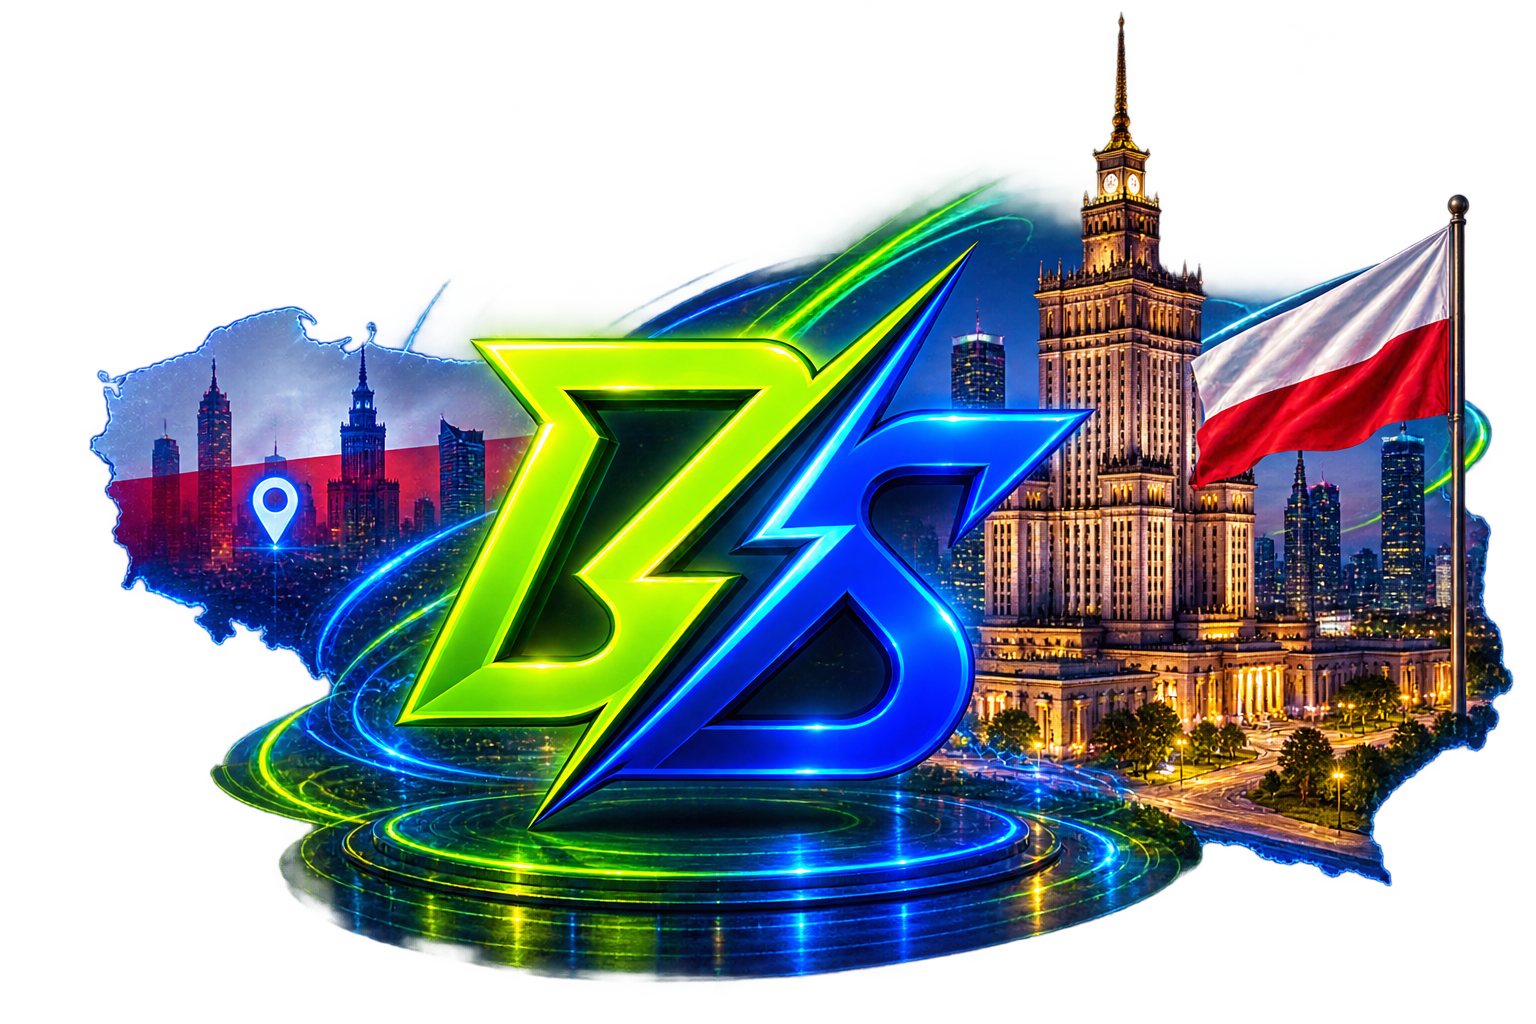
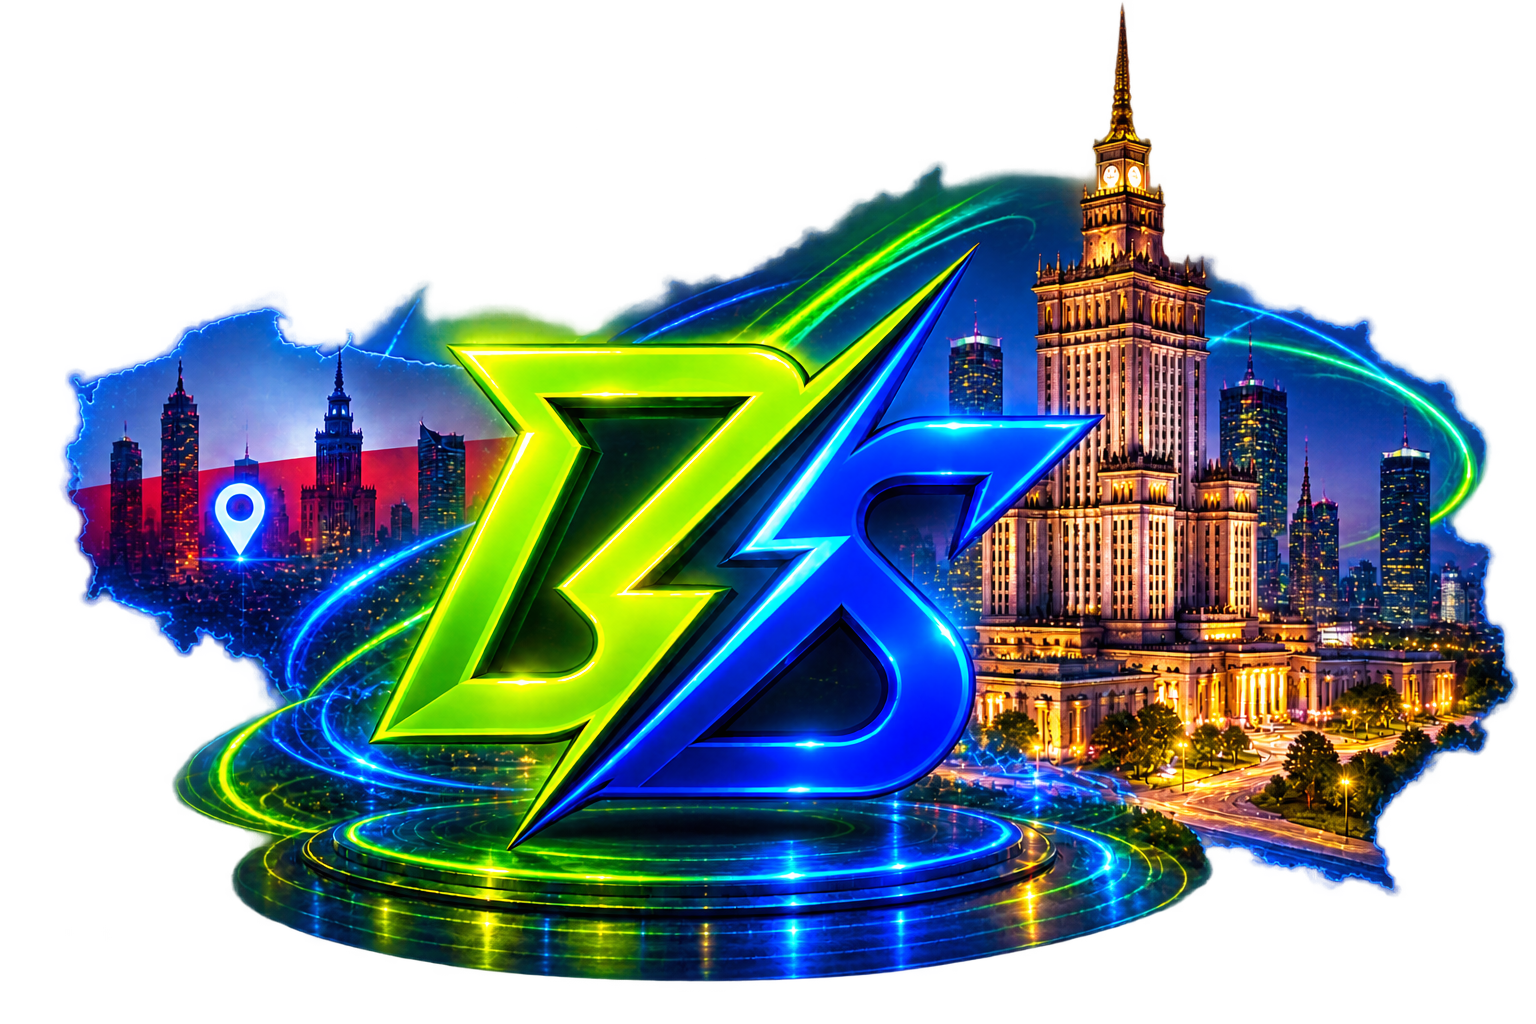
BLINK SWAP: международные переводы, убрана Польша

diff --git a/src/App.js b/src/App.js
@@ -1,6 +1,6 @@
 import React from 'react';
 import './App.css';
-import { ShieldCheck, Clock, MapPin, Lock, ArrowRight, CalendarClock } from 'lucide-react';
+import { ShieldCheck, Clock, MapPin, Lock, ArrowRight, CalendarClock, Globe } from 'lucide-react';
 import { SiTether } from 'react-icons/si';
 import { FaDollarSign, FaEuroSign } from 'react-icons/fa';
 
@@ -96,15 +96,15 @@ function App() {
       <main>
         <section className="hero">
           <div className="hero-left">
-            <div className="hero-eyebrow">ФИЗИЧЕСКИЙ ОБМЕН КРИПТОВАЛЮТ</div>
+            <div className="hero-eyebrow">МЕЖДУНАРОДНЫЕ ПЕРЕВОДЫ И ОБМЕН</div>
             <h1 className="hero-title">
               <span className="green-text">БЫСТРО.</span><br />
               <span className="blue-text">БЕЗОПАСНО.</span><br />
-              <span className="white-text">В ПОЛЬШЕ</span>
+              <span className="white-text">ПО ВСЕМУ МИРУ</span>
             </h1>
             <p className="hero-desc">
-              Назначаем время и место встречи.<br />
-              Вы приходите и совершаете обмен лично.
+              Переводы в любую точку мира.<br />
+              Быстро, безопасно, конфиденциально.
             </p>
             <a href={TELEGRAM_URL} target="_blank" rel="noopener noreferrer" className="btn-manager">
               <div className="btn-manager-circle">
@@ -129,20 +129,20 @@ function App() {
         <section className="benefits">
           <BenefitCard
             icon={<ShieldCheck className="benefit-icon-svg" />}
-            title="БЕЗОПАСНЫЕ СДЕЛКИ"
-            desc="Проверенный обменный пункт"
+            title="БЕЗОПАСНЫЕ ПЕРЕВОДЫ"
+            desc="Проверенный сервис"
             color="green"
           />
           <BenefitCard
             icon={<Clock className="benefit-icon-svg" />}
-            title="НАЗНАЧАЕМ ВРЕМЯ"
-            desc="Удобно для вас"
+            title="БЫСТРАЯ ОТПРАВКА"
+            desc="В течение 15 минут"
             color="green"
           />
           <BenefitCard
-            icon={<MapPin className="benefit-icon-svg" />}
-            title="ОБМЕН В ПОЛЬШЕ"
-            desc="Варшава и другие города"
+            icon={<Globe className="benefit-icon-svg" />}
+            title="ПО ВСЕМУ МИРУ"
+            desc="Любая страна и город"
             color="blue"
           />
           <BenefitCard
@@ -156,7 +156,7 @@ function App() {
         <section className="directions-section">
           <h2 className="directions-title">
             <span className="title-line" />
-            ДОСТУПНЫЕ НАПРАВЛЕНИЯ ОБМЕНА
+            ДОСТУПНЫЕ НАПРАВЛЕНИЯ
             <span className="title-line" />
           </h2>
           <div className="directions-grid">
@@ -189,8 +189,8 @@ function App() {
               <CalendarClock className="appointment-icon" />
             </div>
             <div>
-              <h3 className="appointment-title">Работаем только по предварительной записи</h3>
-              <p className="appointment-desc">Обмен возможен только при личной встрече в нашем офисе в Польше.</p>
+              <h3 className="appointment-title">Работаем по предварительной записи</h3>
+              <p className="appointment-desc">Переводы и обмен доступны после согласования с менеджером. Любая точка мира.</p>
             </div>
           </div>
           <a href={TELEGRAM_CHANNEL} target="_blank" rel="noopener noreferrer" className="appointment-tg">
@@ -200,7 +200,7 @@ function App() {
       </main>
 
       <footer className="footer">
-        <span className="copyright">© 2024 BLINK SWAP. Физический обмен криптовалют в Польше.</span>
+        <span className="copyright">© 2024 BLINK SWAP. Международные переводы и обмен криптовалют.</span>
         <a href={TELEGRAM_CHANNEL} target="_blank" rel="noopener noreferrer" className="footer-link">
           Больше информации у нас на канале BLINK SWAP
         </a>
